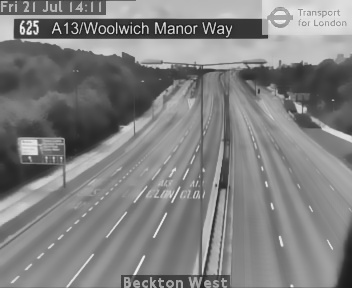
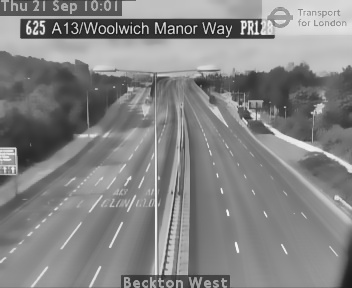
#

diff --git a/det.py b/det.py
@@ -9,7 +9,7 @@ import os
 loc = os.path.abspath('')
 
 # Video source
-inputFile = loc+'/inputs/625_201707211410.mp4'
+inputFile = loc+'/inputs/625_201709211001.mp4'
 
 # for testing
 tracked_blobs = []
@@ -41,9 +41,9 @@ class Vehicle(object):
 
     def draw(self, output_image):
         for point in self.positions:
-            cv2.circle(output_image, point, 2, (0, 255, 0), -1)
+            cv2.circle(output_image, point, 2, (0, 255, 255), 1)
             cv2.polylines(output_image, [np.int32(self.positions)]
-                , False, (0, 255, 0), 2)
+                , False, (50,205,50), 1)
 
 # ============================================================================
 
@@ -201,7 +201,7 @@ class VehicleCounter(object):
             # cv2.putText(output_image, ("LH Lane: %02d" % self.vehicle_LHS), (12, 56)
             #     , cv2.FONT_HERSHEY_PLAIN, 1.2, (127,255, 255), 2)
             # RHS
-            cv2.putText(output_image, ("RH Lane: %02d" % self.vehicle_RHS), (216, 56)
+            cv2.putText(output_image, ("Right Side: %02d" % self.vehicle_RHS), (200, 80)
                 , cv2.FONT_HERSHEY_PLAIN, 1.2, (127, 255, 255), 2)
 
         # Remove vehicles that have not been seen long enough
@@ -410,7 +410,7 @@ while ret:
                         )
             tracked_conts.append(c)
             
-            cv2.rectangle(frame, (x, y), (x + w - 1, y + h - 1), (0, 255, 255), 2)
+            cv2.rectangle(frame, (x, y), (x + w - 1, y + h - 1), (50,205,50), 2)
             cv2.circle(frame, centroid, 2, (255, 0, 255), -1)
         
         if car_counter is None:
@@ -445,7 +445,7 @@ while ret:
         cv2.imshow("preview", frame)
         # out.write(frame)
         
-        if cv2.waitKey(1)==27:
+        if cv2.waitKey(100)==27:
             break
     else:
         break
